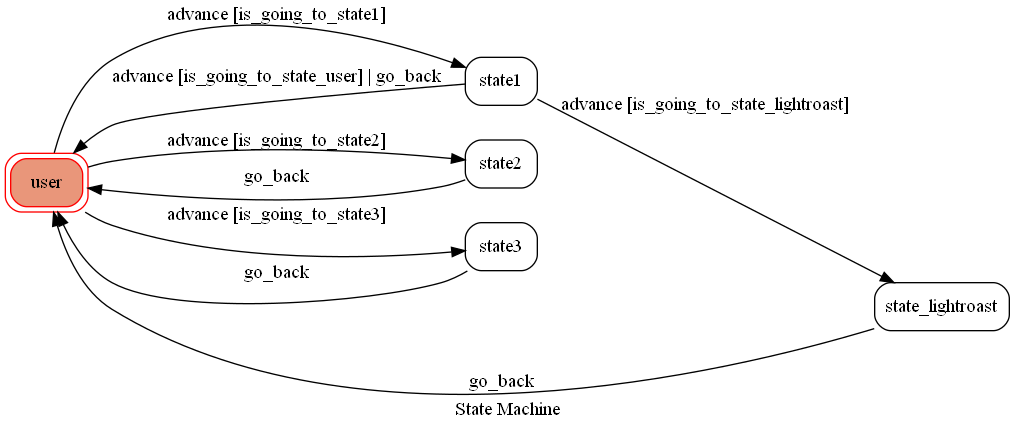
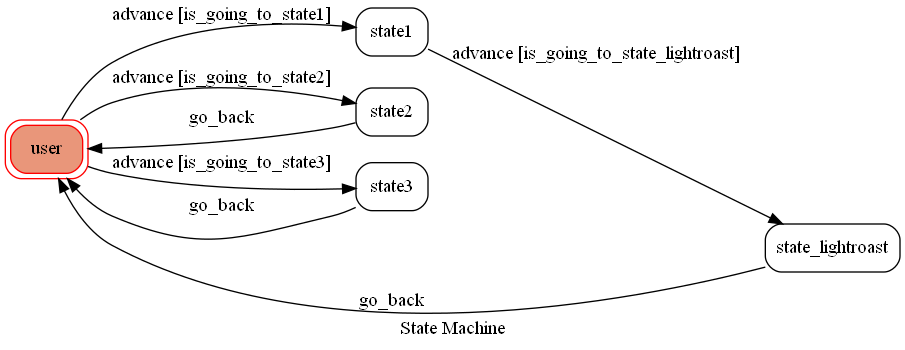
add state lightroast retry

diff --git a/print.py b/print.py
@@ -33,14 +33,7 @@ machine = GraphMachine(
             "dest": "state_lightroast",
             "conditions": "is_going_to_state_lightroast",
         },
-        {
-            "trigger": "advance",
-            "source": "state1",
-            "dest": "user",
-            "conditions": "is_going_to_state_user",
-        },
-
-        {"trigger": "go_back", "source": ["state1","state_lightroast","state2", "state3"], "dest": "user"},
+        {"trigger": "go_back", "source": ["state_lightroast","state2", "state3"], "dest": "user"},
         #{"trigger": "go_back", "source": "state_light_roast", "dest": "state1"},
     ],
     initial="user",

diff --git a/app.py b/app.py
@@ -40,13 +40,7 @@ machine = TocMachine(
             "dest": "state_lightroast",
             "conditions": "is_going_to_state_lightroast",
         },
-        {
-            "trigger": "advance",
-            "source": "state1",
-            "dest": "user",
-            "conditions": "is_going_to_state_user",
-        },
-        {"trigger": "go_back", "source": ["state1","state_lightroast","state2", "state3"], "dest": "user"},
+        {"trigger": "go_back", "source": ["state_lightroast","state2", "state3"], "dest": "user"},
     ],
     initial="user",
     auto_transitions=False,

diff --git a/fsm.py b/fsm.py
@@ -23,10 +23,6 @@ class TocMachine(GraphMachine):
         text = event.message.text
         return text.lower() == "淺焙"
 
-    def is_going_to_state_user(self, event):
-        text = event.message.text
-        return text.lower() == "離開"
-
     def on_enter_state1(self, event):
         print("I'm entering state1")
 
